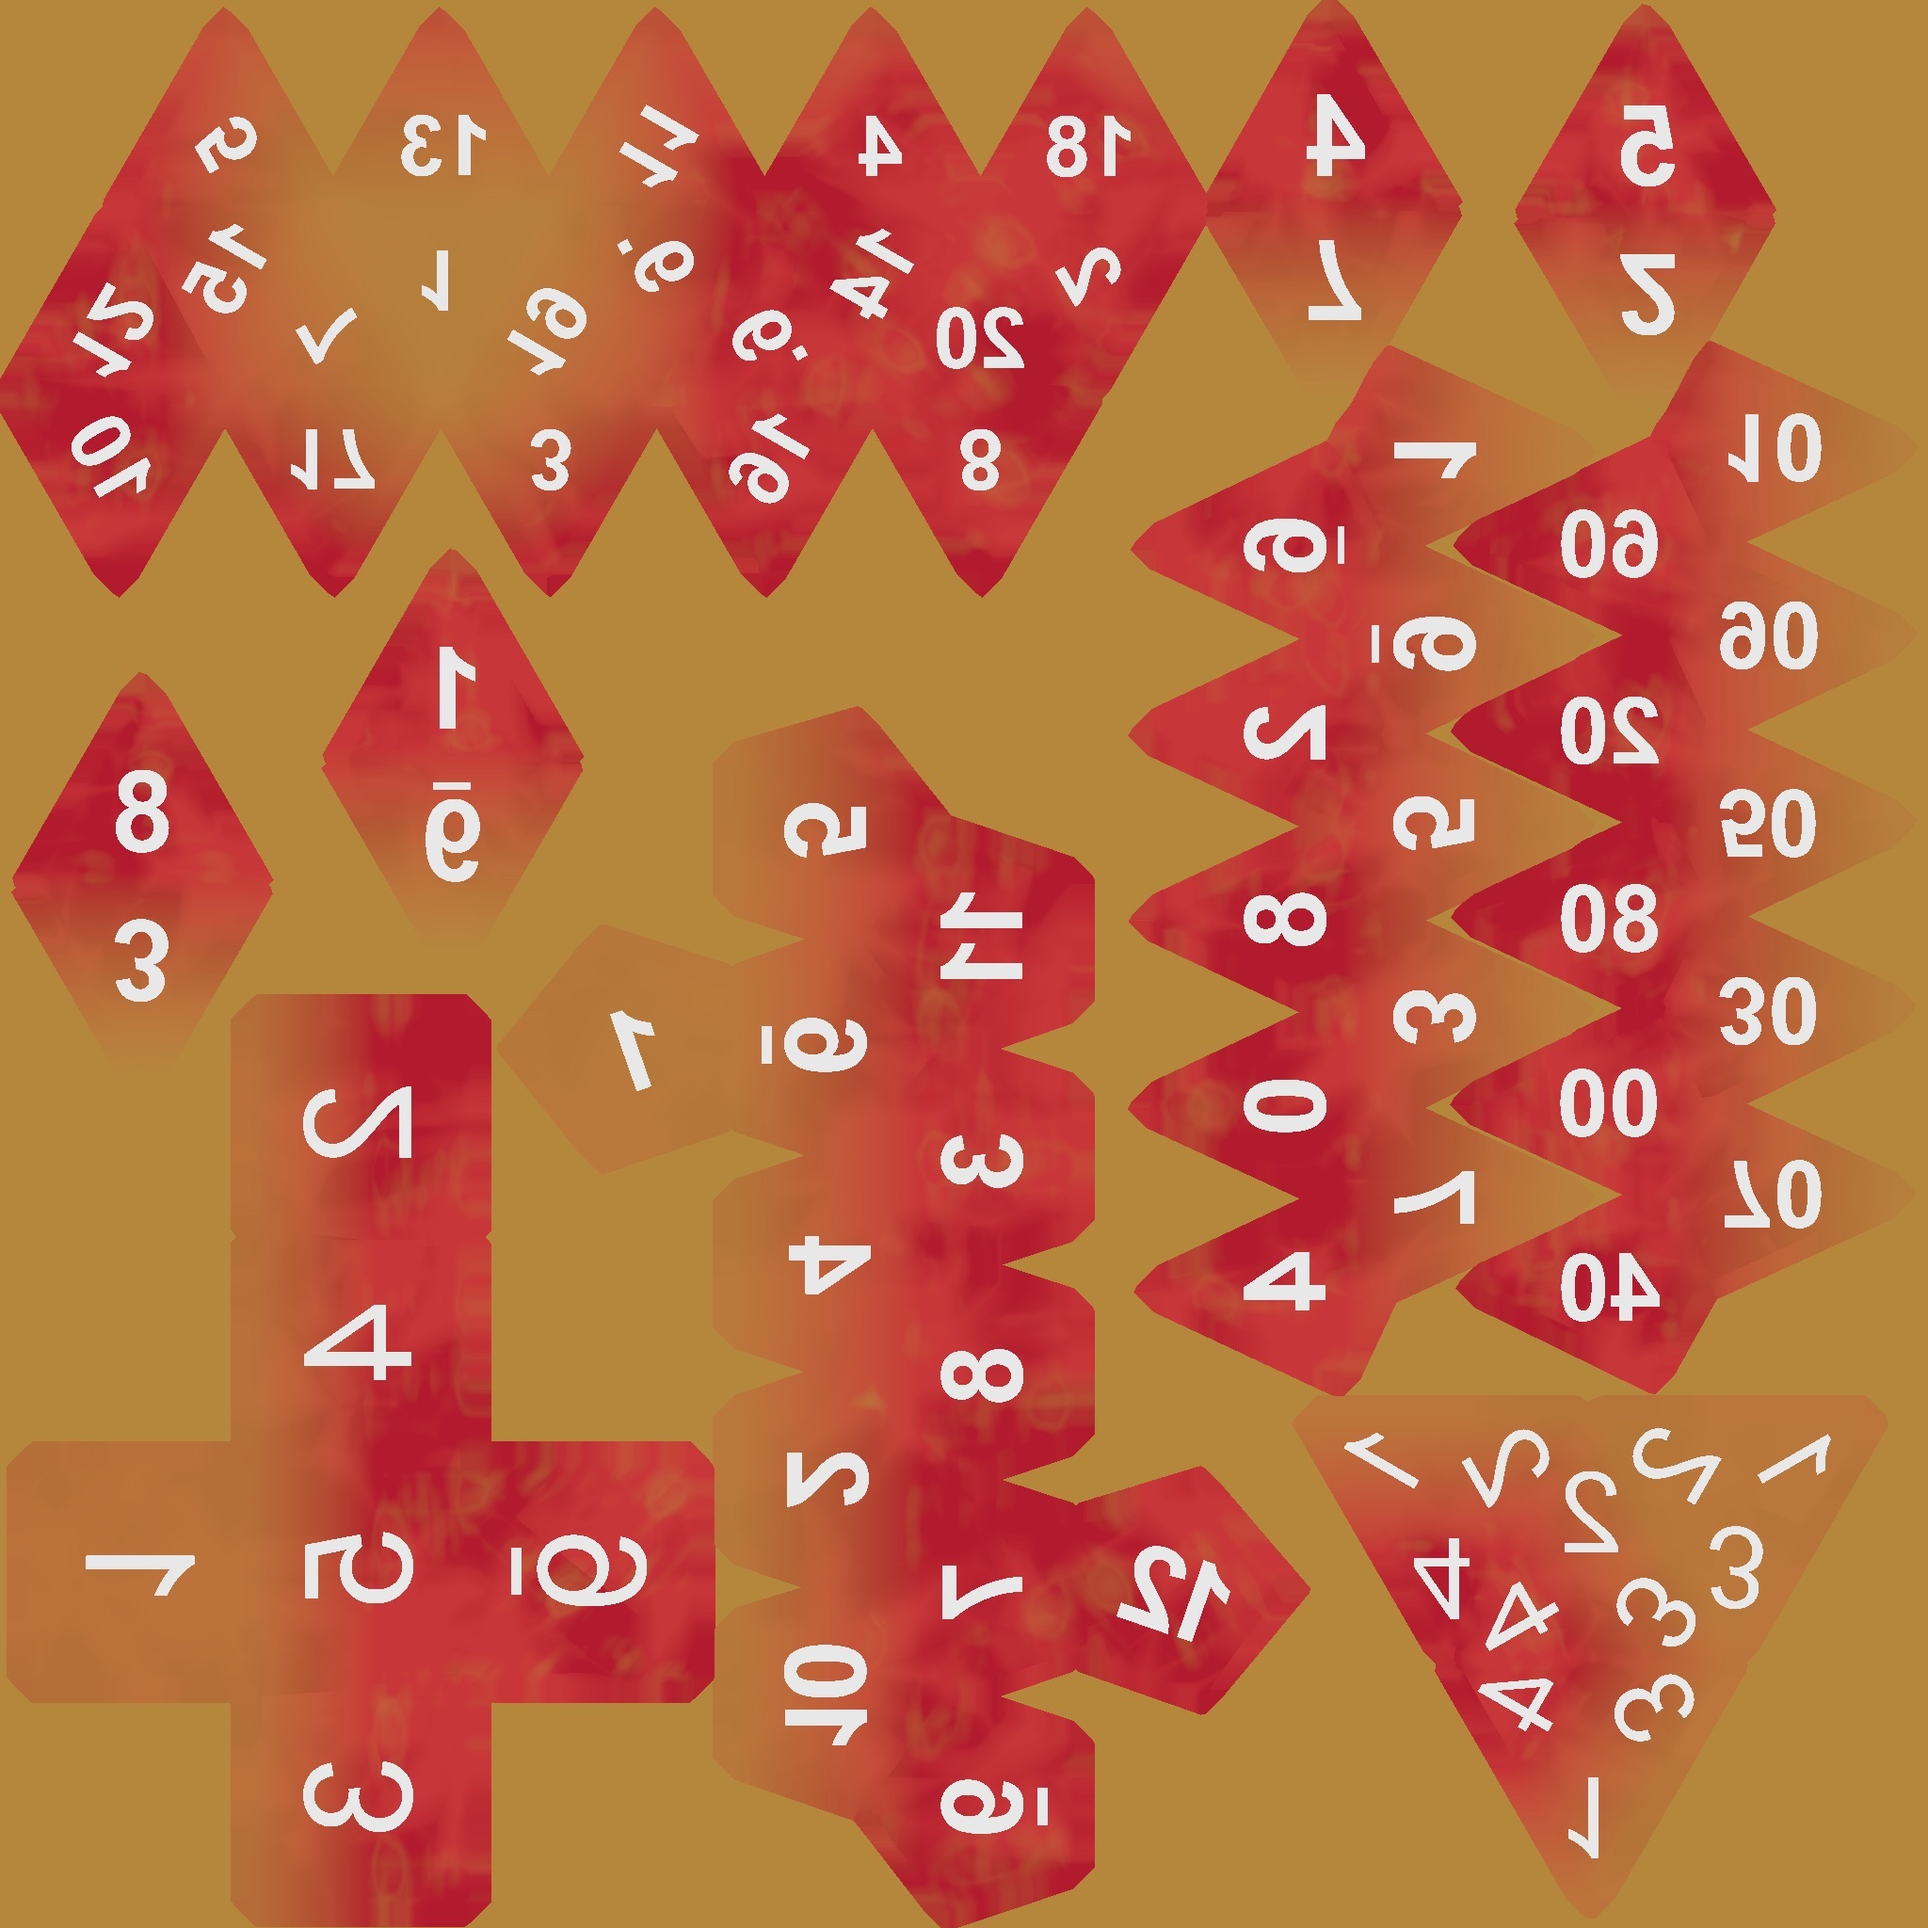
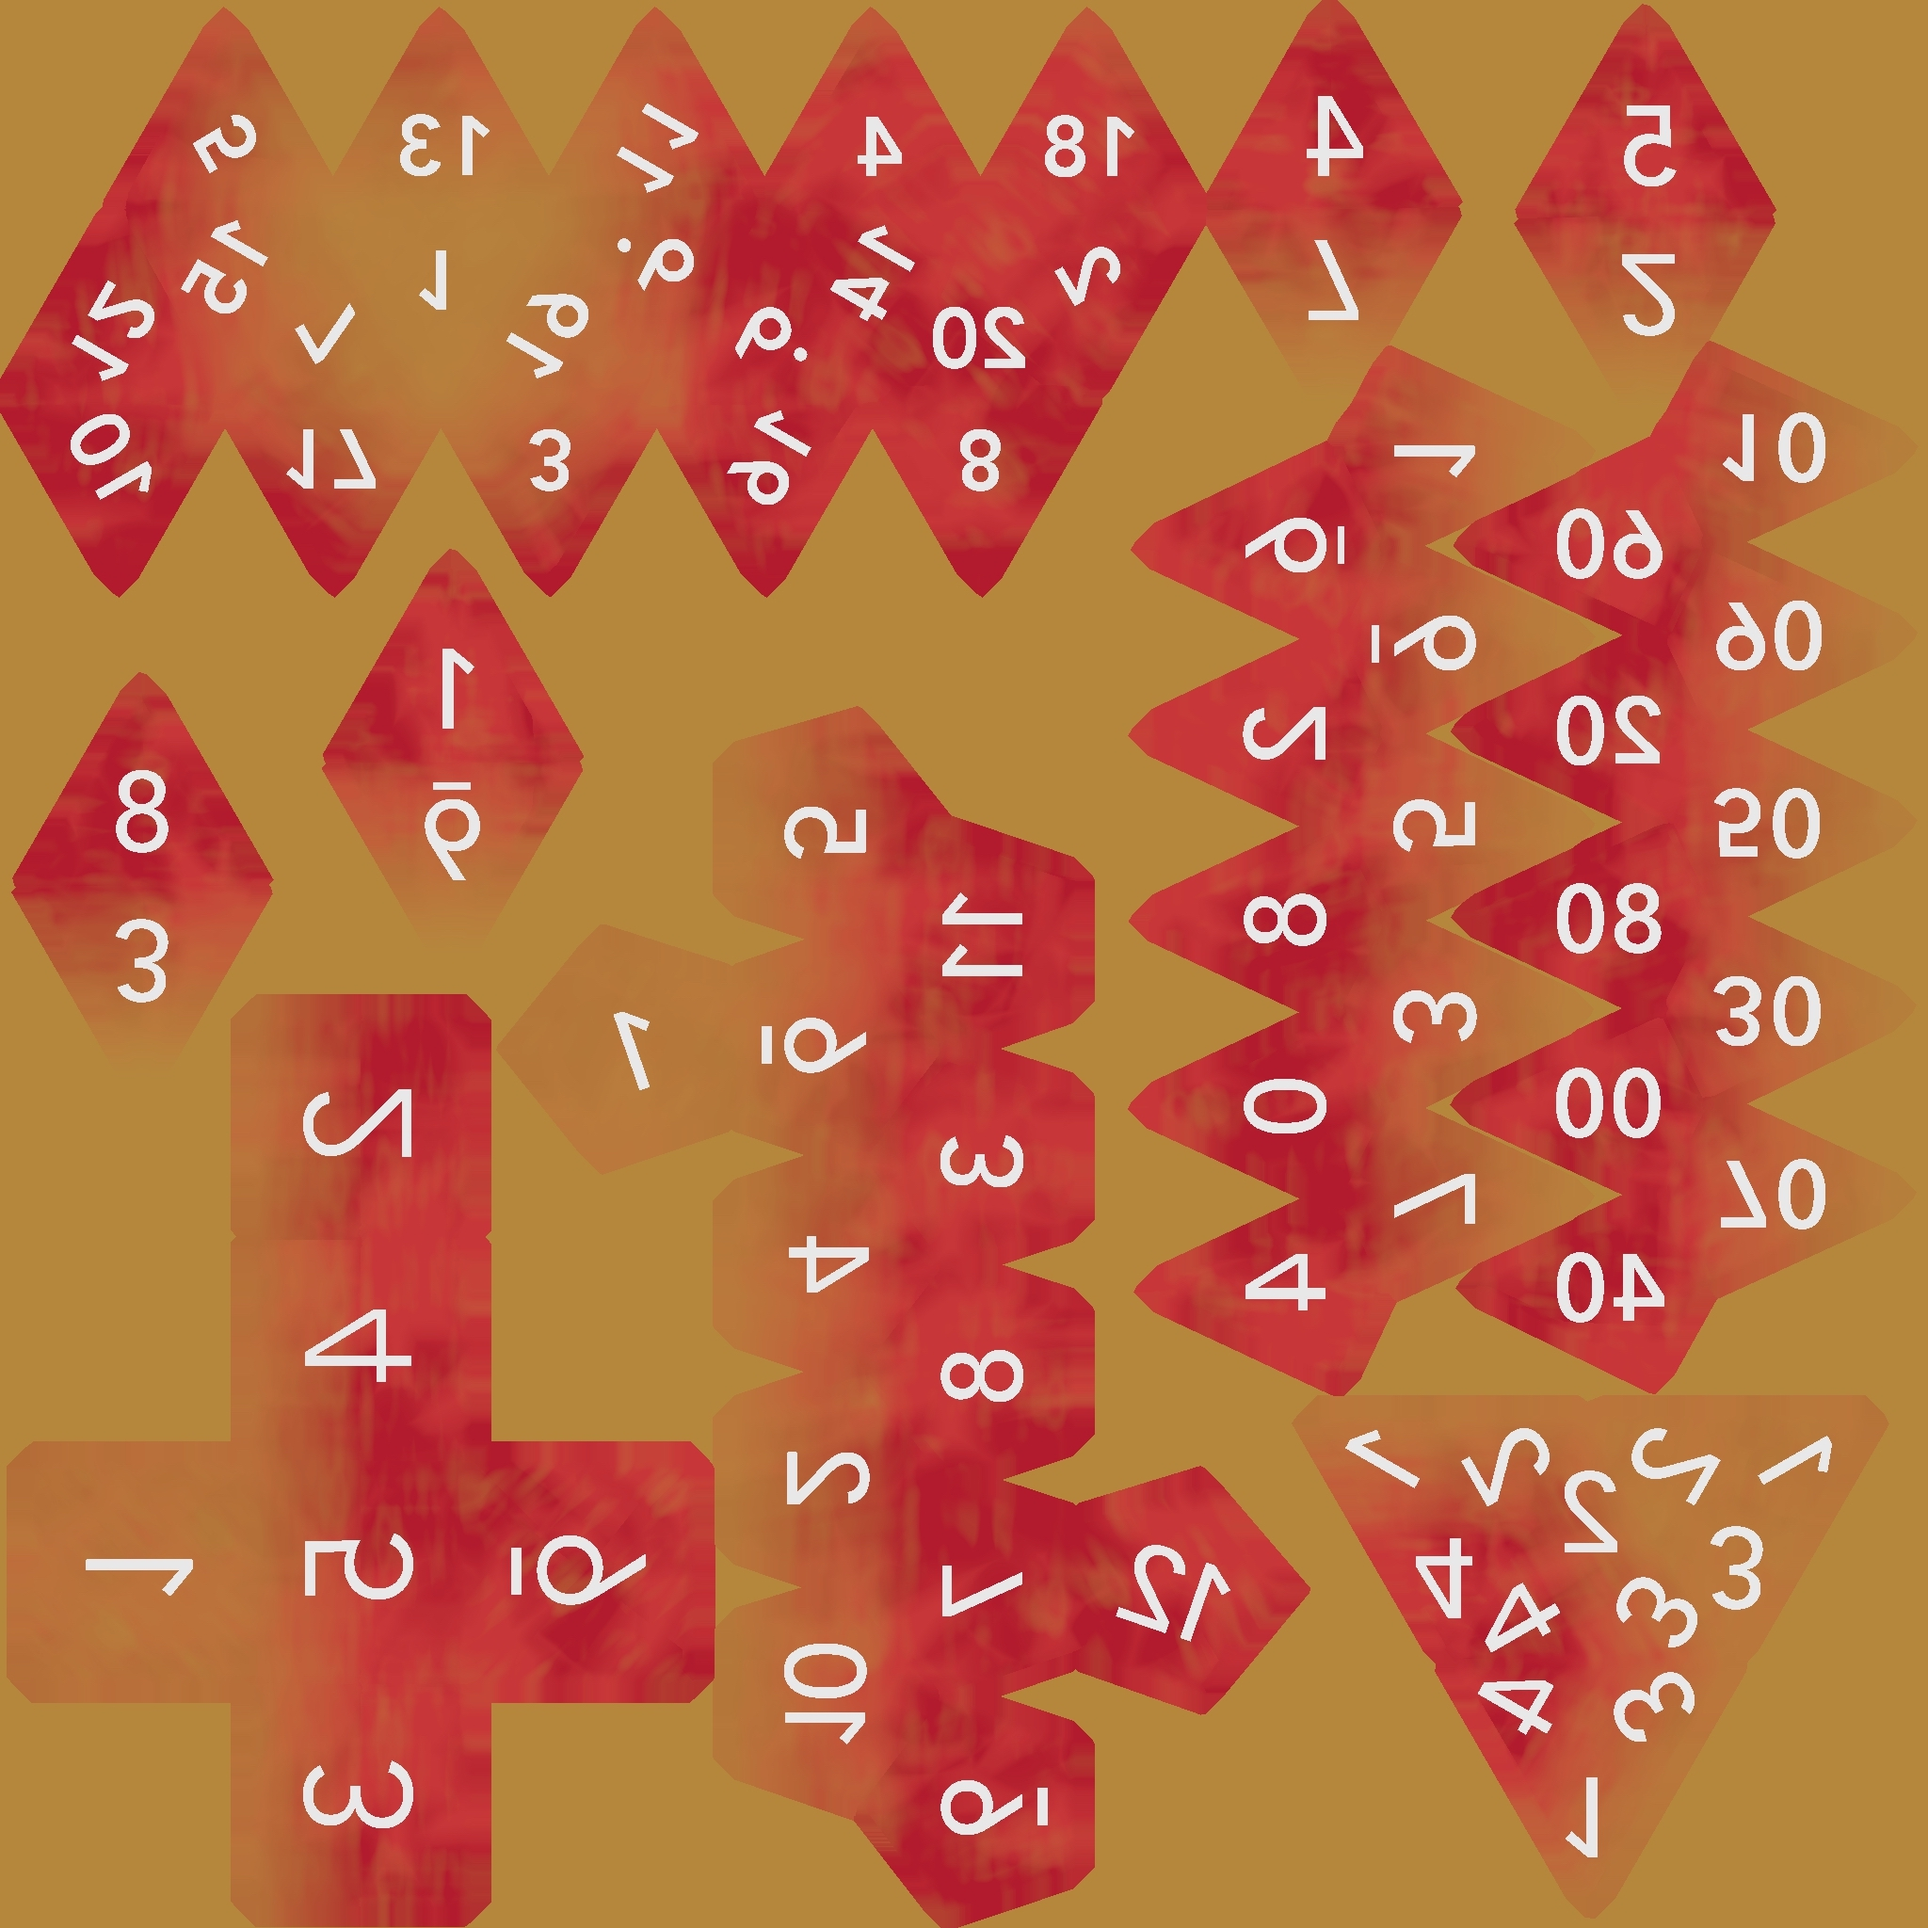
Added more dice

diff --git a/src/dice/sunrise/SunriseDice.js b/src/dice/sunrise/SunriseDice.js
@@ -1,0 +1,27 @@
+import Dice from "../Dice";
+
+import albedo from "./albedo.jpg";
+import metalRoughness from "./metalRoughness.jpg";
+import normal from "./normal.jpg";
+
+class SunriseDice extends Dice {
+  static meshes;
+  static material;
+
+  static async createInstance(diceType, scene) {
+    if (!this.material) {
+      this.material = this.loadMaterial(
+        "sunrise_pbr",
+        { albedo, metalRoughness, normal },
+        scene
+      );
+    }
+    if (!this.meshes) {
+      this.meshes = await this.loadMeshes(this.material, scene);
+    }
+
+    return Dice.createInstance(this.meshes[diceType], scene);
+  }
+}
+
+export default SunriseDice;

diff --git a/src/dice/galaxy/GalaxyDice.js b/src/dice/galaxy/GalaxyDice.js
@@ -1,0 +1,27 @@
+import Dice from "../Dice";
+
+import albedo from "./albedo.jpg";
+import metalRoughness from "./metalRoughness.jpg";
+import normal from "./normal.jpg";
+
+class GalaxyDice extends Dice {
+  static meshes;
+  static material;
+
+  static async createInstance(diceType, scene) {
+    if (!this.material) {
+      this.material = this.loadMaterial(
+        "galaxy_pbr",
+        { albedo, metalRoughness, normal },
+        scene
+      );
+    }
+    if (!this.meshes) {
+      this.meshes = await this.loadMeshes(this.material, scene);
+    }
+
+    return Dice.createInstance(this.meshes[diceType], scene);
+  }
+}
+
+export default GalaxyDice;

diff --git a/src/dice/nebula/NebulaDice.js b/src/dice/nebula/NebulaDice.js
@@ -1,0 +1,27 @@
+import Dice from "../Dice";
+
+import albedo from "./albedo.jpg";
+import metalRoughness from "./metalRoughness.jpg";
+import normal from "./normal.jpg";
+
+class NebulaDice extends Dice {
+  static meshes;
+  static material;
+
+  static async createInstance(diceType, scene) {
+    if (!this.material) {
+      this.material = this.loadMaterial(
+        "nebula_pbr",
+        { albedo, metalRoughness, normal },
+        scene
+      );
+    }
+    if (!this.meshes) {
+      this.meshes = await this.loadMeshes(this.material, scene);
+    }
+
+    return Dice.createInstance(this.meshes[diceType], scene);
+  }
+}
+
+export default NebulaDice;

diff --git a/src/dice/walnut/WalnutDice.js b/src/dice/walnut/WalnutDice.js
@@ -1,0 +1,27 @@
+import Dice from "../Dice";
+
+import albedo from "./albedo.jpg";
+import metalRoughness from "./metalRoughness.jpg";
+import normal from "./normal.jpg";
+
+class WalnutDice extends Dice {
+  static meshes;
+  static material;
+
+  static async createInstance(diceType, scene) {
+    if (!this.material) {
+      this.material = this.loadMaterial(
+        "walnut_pbr",
+        { albedo, metalRoughness, normal },
+        scene
+      );
+    }
+    if (!this.meshes) {
+      this.meshes = await this.loadMeshes(this.material, scene);
+    }
+
+    return Dice.createInstance(this.meshes[diceType], scene);
+  }
+}
+
+export default WalnutDice;

diff --git a/src/dice/iron/IronDice.js b/src/dice/iron/IronDice.js
@@ -1,0 +1,27 @@
+import Dice from "../Dice";
+
+import albedo from "./albedo.jpg";
+import metalRoughness from "./metalRoughness.jpg";
+import normal from "./normal.jpg";
+
+class IronDice extends Dice {
+  static meshes;
+  static material;
+
+  static async createInstance(diceType, scene) {
+    if (!this.material) {
+      this.material = this.loadMaterial(
+        "iron_pbr",
+        { albedo, metalRoughness, normal },
+        scene
+      );
+    }
+    if (!this.meshes) {
+      this.meshes = await this.loadMeshes(this.material, scene);
+    }
+
+    return Dice.createInstance(this.meshes[diceType], scene);
+  }
+}
+
+export default IronDice;

diff --git a/src/components/map/dice/DiceControls.js b/src/components/map/dice/DiceControls.js
@@ -1,7 +1,7 @@
 import React from "react";
 import { Flex, IconButton } from "theme-ui";
 
-import SunsetDice from "../../../dice/sunset/SunsetDice";
+import SunsetDice from "../../../dice/galaxy/GalaxyDice";
 
 import D20Icon from "../../../icons/D20Icon";
 import D12Icon from "../../../icons/D12Icon";

diff --git a/src/components/map/dice/DiceTray.js b/src/components/map/dice/DiceTray.js
@@ -161,8 +161,8 @@ function DiceTray({ isOpen }) {
   return (
     <Box
       sx={{
-        width: "275px",
-        height: "550px",
+        width: "300px",
+        height: "600px",
         borderRadius: "4px",
         display: isOpen ? "block" : "none",
         position: "relative",
